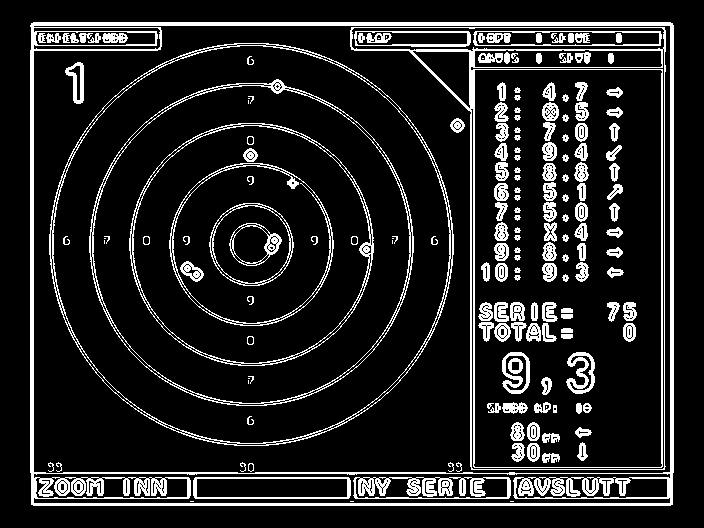
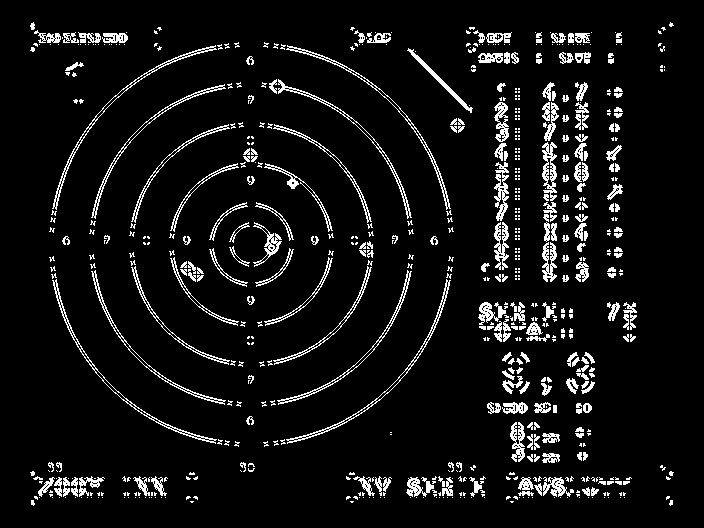
Removed near vertical and horizontal gradients to reduce contribution from text

diff --git a/detect_scoring_zones.py b/detect_scoring_zones.py
@@ -51,6 +51,7 @@ def get_config():
         'outer_circle_blur_sigma': 1.0,             # Gaussian blur sigma
         'outer_circle_mag_floor': 1e-3,             # Minimum gradient magnitude
         'outer_circle_mag_percentile': 60.0,        # Percentile for edge threshold
+        'outer_circle_filter_angle_deg': 2.0,       # Filter gradients within ±N degrees of horizontal/vertical
         'outer_circle_max_edge_points': 12000,      # Maks antall edge points
         'outer_circle_rmin_frac': 0.25,             # Minimum radius fraction
         'outer_circle_rmax_frac': 0.55,              # Maximum radius fraction
@@ -326,12 +327,33 @@ def detect_outer_circle(img: np.ndarray, cfg: dict, debug: bool = False,
     Gy = cv2.Scharr(gray, cv2.CV_32F, 0, 1)
     mag = cv2.magnitude(Gx, Gy)
     
+    # Filter out gradients that are nearly horizontal or vertical (±N degrees)
+    # This helps remove gradients from straight lines that aren't part of circles
+    angle_threshold_deg = cfg['outer_circle_filter_angle_deg']
+    angle_threshold_rad = np.deg2rad(angle_threshold_deg)
+    angle_threshold_tan = np.tan(angle_threshold_rad)
+    
+    # Calculate angle from horizontal: atan2(Gy, Gx)
+    # For nearly horizontal: |Gy| / |Gx| < tan(2°) when |Gx| > |Gy|
+    # For nearly vertical: |Gx| / |Gy| < tan(2°) when |Gy| > |Gx|
+    eps = 1e-6
+    mag_safe = mag + eps
+    
+    # Check if gradient is nearly horizontal (angle close to 0° or 180°)
+    # This means |Gy| is small compared to |Gx|
+    nearly_horizontal = np.abs(Gy) / (np.abs(Gx) + eps) < angle_threshold_tan
+    
+    # Check if gradient is nearly vertical (angle close to 90° or 270°)
+    # This means |Gx| is small compared to |Gy|
+    nearly_vertical = np.abs(Gx) / (np.abs(Gy) + eps) < angle_threshold_tan
+    
+    # Set magnitude to 0 for nearly horizontal or vertical gradients
+    mag[nearly_horizontal | nearly_vertical] = 0.0
+    
     # Gradient directions (normalized)
     # Note: For a dark circle on light background, gradient points outward (away from center)
     # For a light circle on dark background, gradient points inward (toward center)
     # We vote in both directions, so it should work either way
-    eps = 1e-6
-    mag_safe = mag + eps
     ux = Gx / mag_safe
     uy = Gy / mag_safe
     log_operation_time(filename, "detect_outer_circle", "gradient", time.time() - start_gradient)
